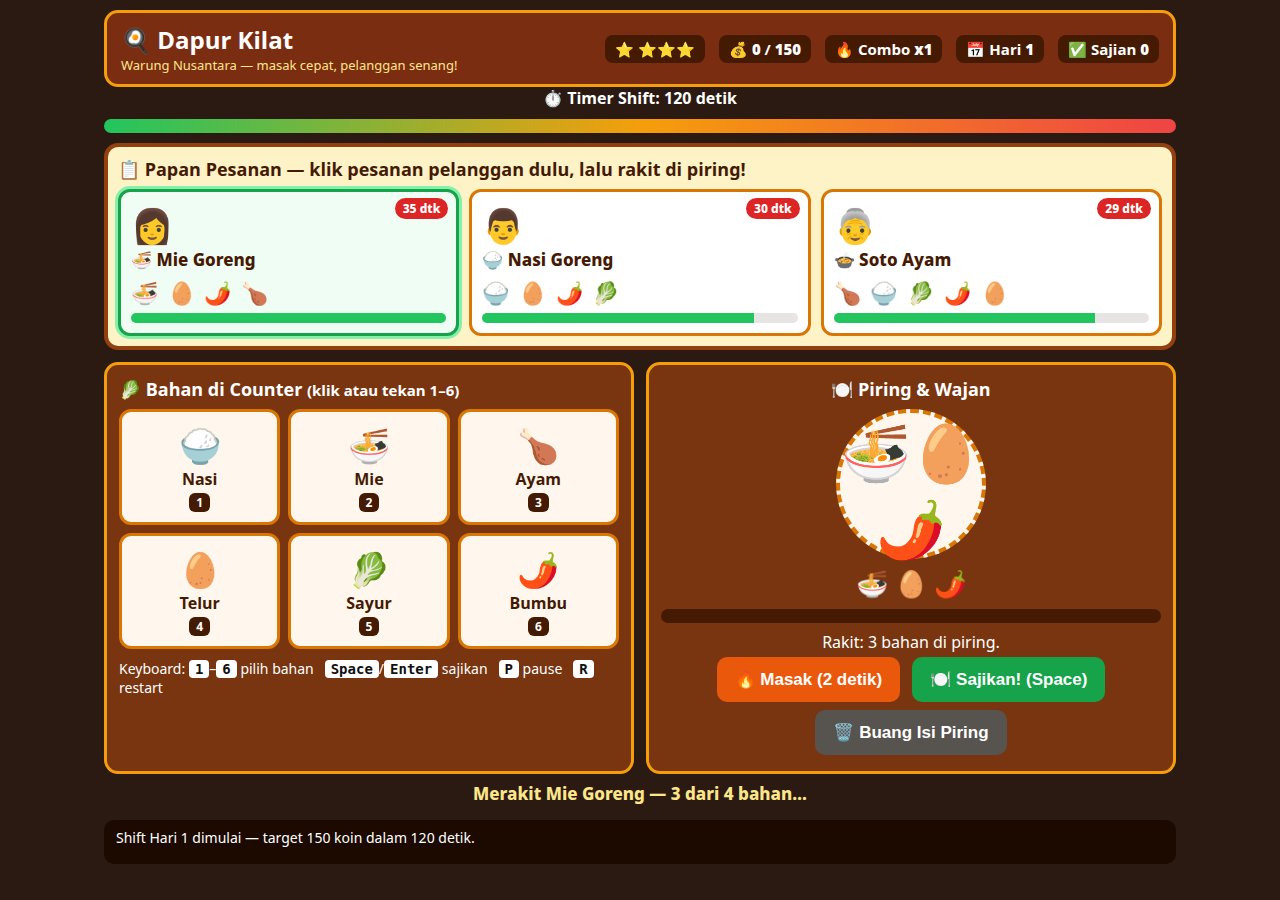
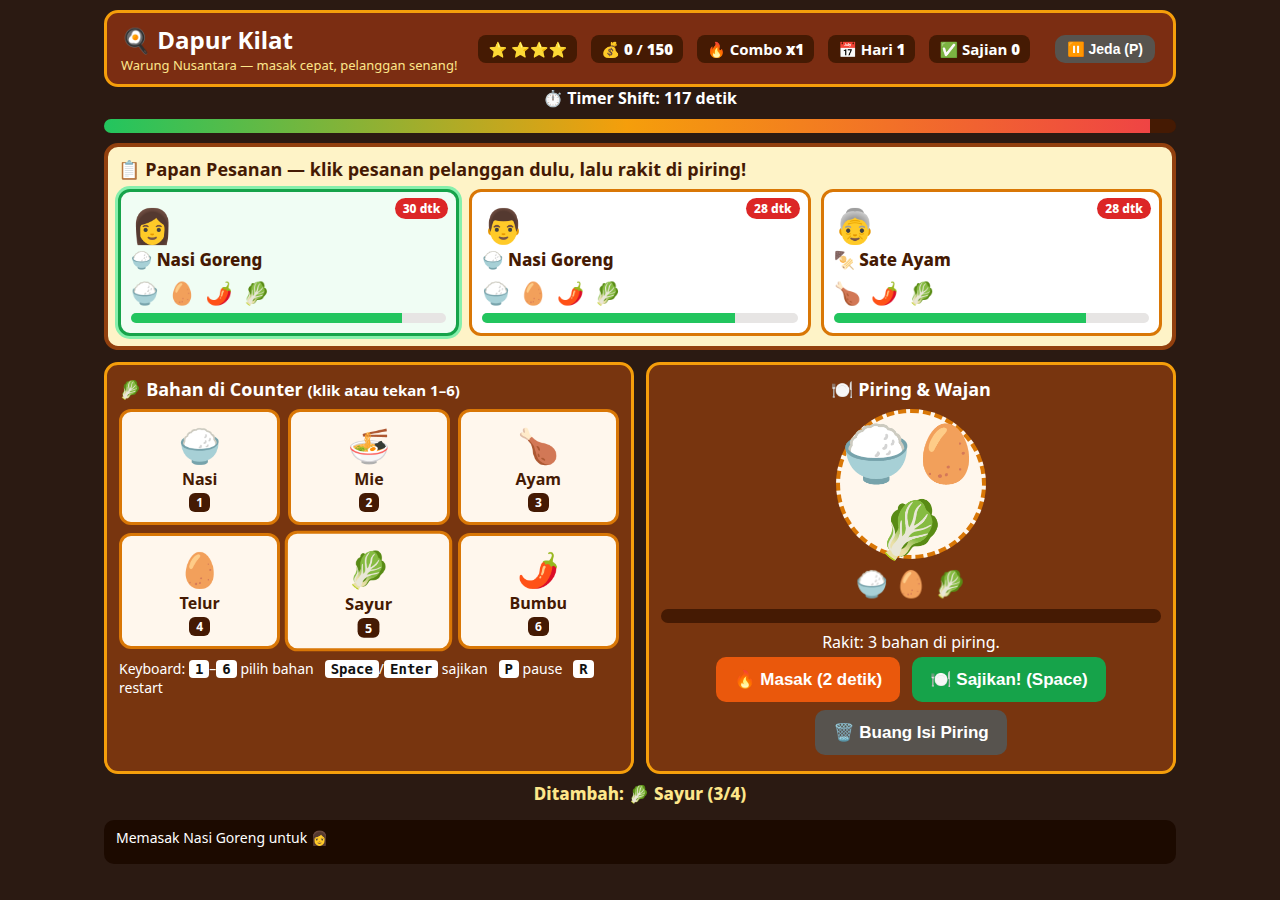
Add files via upload

diff --git a/game/index.html b/game/index.html
@@ -71,6 +71,7 @@
       <span>📅 Hari <b id="day">1</b></span>
       <span>✅ Sajian <b id="served">0</b></span>
     </div>
+    <button class="btn grey" id="pauseBtn" style="padding:6px 12px;font-size:14px">⏸ Jeda (P)</button>
   </header>
   <div id="shiftLabel">⏱ Timer Shift: <span id="shiftTime">120</span> detik</div>
   <div id="shiftBarWrap"><div id="shiftBar"></div></div>
@@ -108,6 +109,7 @@
     <p>🍚 <b>Nasi Goreng</b> = Nasi + Telur + Bumbu + Sayur &nbsp;|&nbsp; 🍜 <b>Mie Goreng</b> = Mie + Telur + Bumbu + Ayam<br>🍢 <b>Sate Ayam</b> = Ayam + Bumbu + Sayur &nbsp;|&nbsp; 🍲 <b>Soto Ayam</b> = Ayam + Nasi + Sayur + Bumbu + Telur</p>
     <p>Target hari ini: <b>150 koin dalam 120 detik</b>. Pesanan kadaluarsa atau sajian salah mengurangi ⭐. Combo berturut-turut menaikkan koin!</p>
     <p>Keyboard: <kbd>1</kbd>–<kbd>6</kbd> bahan, <kbd>Space</kbd> sajikan, <kbd>P</kbd> pause, <kbd>R</kbd> restart. Mouse: klik semuanya.</p>
+    <p>💡 Tips: tekan <kbd>P</kbd> kapan saja untuk jeda — tombol ⏸ Jeda juga ada di kanan atas layar, di samping skor.</p>
     <button class="btn" id="startBtn" style="font-size:20px;padding:14px 28px">▶ Mulai Shift (120 detik)</button>
   </div>
 </div>
@@ -246,6 +248,7 @@ function serve(){
   state.selected=null; state.plate=[]; state.cooked=false; state.cookProgress=0;
   msg('🎉 '+o.recipe.dish+' disajikan! +'+earned+' koin (combo x'+mult+')');
   log('Disajikan: '+o.recipe.dish+' ke '+o.cust+' — +'+earned+' koin.');
+  if(state.combo===3) log('🔥 Combo x4! Tiga sajian berturut-turut tanpa kesalahan — pelanggan makin senang!');
   sfx('serve'); spawnOrder(); render();
   if(state.coins>=state.target) endGame(true);
 }
@@ -289,6 +292,7 @@ $('startBtn').addEventListener('click',startGame);
 $('restartBtn').addEventListener('click',startGame);
 $('restartBtn2').addEventListener('click',startGame);
 $('resumeBtn').addEventListener('click',()=>{state.paused=false;$('pauseScreen').classList.add('hidden');});
+$('pauseBtn').addEventListener('click',()=>{ if(state&&state.running){ state.paused=!state.paused; $('pauseScreen').classList.toggle('hidden',!state.paused); } });
 $('cookBtn').addEventListener('click',cook);
 $('serveBtn').addEventListener('click',serve);
 $('clearBtn').addEventListener('click',()=>{state.plate=[];state.cooked=false;state.cookProgress=0;render();});

diff --git a/main.ts b/main.ts
@@ -18,6 +18,12 @@ import { fileURLToPath } from 'node:url';
 import { buildDossier } from './vendor/makefun-game.ts';
 
 const here = fileURLToPath(new URL('.', import.meta.url));
+const handInGame = join(here, 'game', 'index.html');
+const handInShots = join(here, 'screenshots');
+if (!existsSync(handInGame)) throw new Error('Dapur Kilat hand-in gagal: game/index.html tidak ditemukan di folder entri ini.');
+if (!existsSync(handInShots)) throw new Error('Dapur Kilat hand-in gagal: folder screenshots/ tidak ditemukan di folder entri ini.');
+if (!existsSync(join(here, 'vendor', 'makefun-game.ts'))) throw new Error('Dapur Kilat hand-in gagal: vendor/makefun-game.ts tidak ditemukan di folder entri ini.');
+
 const out = process.env.MAKEFUN_OUTPUT_DIR ?? '/output';
 
 mkdirSync(out, { recursive: true });
